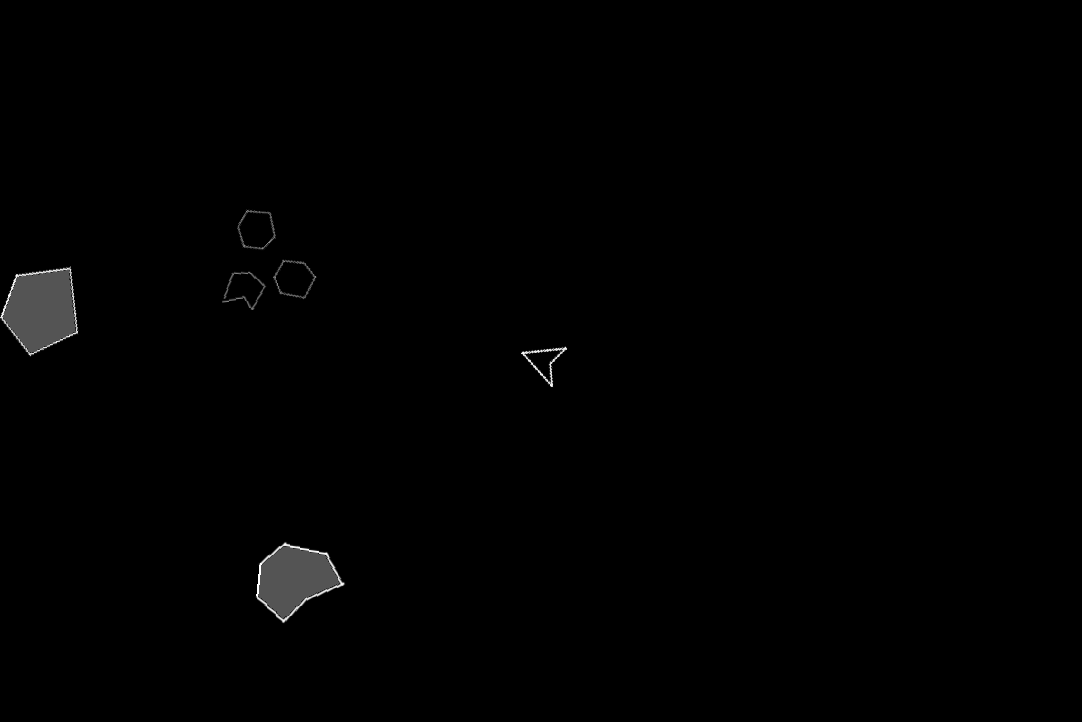
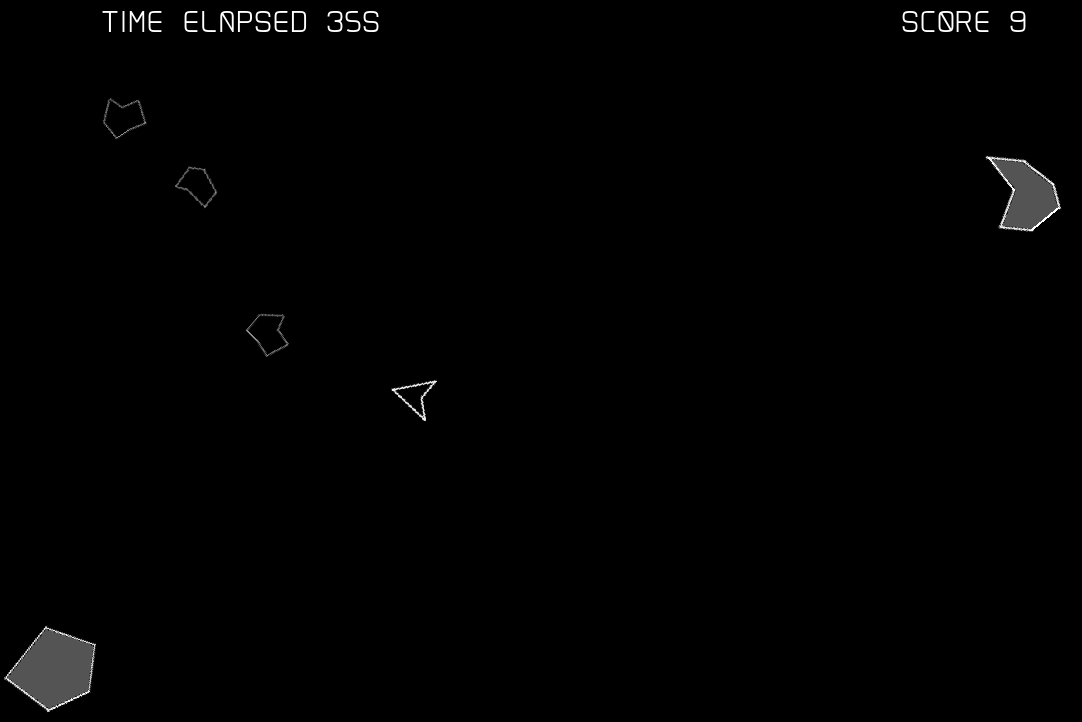
feat: implement score (#7)
* feat: implement score

* feat: update screenshots

diff --git a/internal/game/game.go b/internal/game/game.go
@@ -19,6 +19,7 @@ import (
 const (
 	defaultScreenWidth  = 1080
 	defaultScreenHeight = 720
+	scoreTimeUnit       = 5
 )
 
 type Game struct {
@@ -27,7 +28,9 @@ type Game struct {
 	nAsteroids      int
 	startTime       time.Time
 	gameDuration    time.Duration
-	maxGameDuration time.Duration
+	highestDuration time.Duration
+	highScore       int
+	kills           int
 	debug           bool
 	ScreenWidth     int
 	ScreenHeight    int
@@ -45,7 +48,9 @@ func New(log *logrus.Logger, nAsteroids int, debug bool) *Game {
 		nAsteroids:      nAsteroids,
 		startTime:       time.Now(),
 		gameDuration:    0,
-		maxGameDuration: 0,
+		kills:           0,
+		highScore:       0,
+		highestDuration: 0,
 		debug:           debug,
 		ScreenWidth:     defaultScreenWidth,
 		ScreenHeight:    defaultScreenHeight,
@@ -85,6 +90,7 @@ func (g *Game) Start() {
 	g.startTime = time.Now()
 	g.gameDuration = 0
 	g.gameOver = false
+	g.kills = 0
 }
 
 // Restart cleans current game and a start a new game.
@@ -97,9 +103,6 @@ func (g *Game) Restart() {
 	}
 	for k := range g.bullets {
 		delete(g.bullets, k)
-	}
-	if g.gameDuration > g.maxGameDuration {
-		g.maxGameDuration = g.gameDuration
 	}
 
 	g.Start()
@@ -180,6 +183,7 @@ func (g *Game) Update() error {
 		if ok {
 			asteroid.Explode()
 			delete(g.bullets, bID)
+			g.kills++
 		}
 	}
 	if len(g.starships) == 0 {
@@ -189,7 +193,12 @@ func (g *Game) Update() error {
 	if !g.gameOver {
 		g.gameDuration = time.Since(g.startTime).Round(time.Second)
 	}
+
 	return nil
+}
+
+func (g *Game) Score() int {
+	return int(g.gameDuration.Seconds()/scoreTimeUnit) + g.kills*2
 }
 
 // Draw draws the game screen.
@@ -225,7 +234,27 @@ func (g *Game) Draw(screen *ebiten.Image) {
 		color.Gray16{0xffff},
 	)
 
+	// Score
+	score := fmt.Sprintf("Score %d", g.Score())
+	scoreTextDim := text.BoundString(fonts.FurturisticRegularFontMenu, elapsed)
+	scoreTextHeight := scoreTextDim.Max.Y - scoreTextDim.Min.Y
+	text.Draw(
+		screen,
+		score,
+		fonts.FurturisticRegularFontMenu,
+		900,
+		scoreTextHeight+10,
+		color.Gray16{0xffff},
+	)
+
 	if g.gameOver {
+		if g.gameDuration > g.highestDuration {
+			g.highestDuration = g.gameDuration
+		}
+		if g.Score() > g.highScore {
+			g.highScore = g.Score()
+		}
+
 		if ebiten.IsKeyPressed(ebiten.KeyEnter) {
 			g.Restart()
 		}
